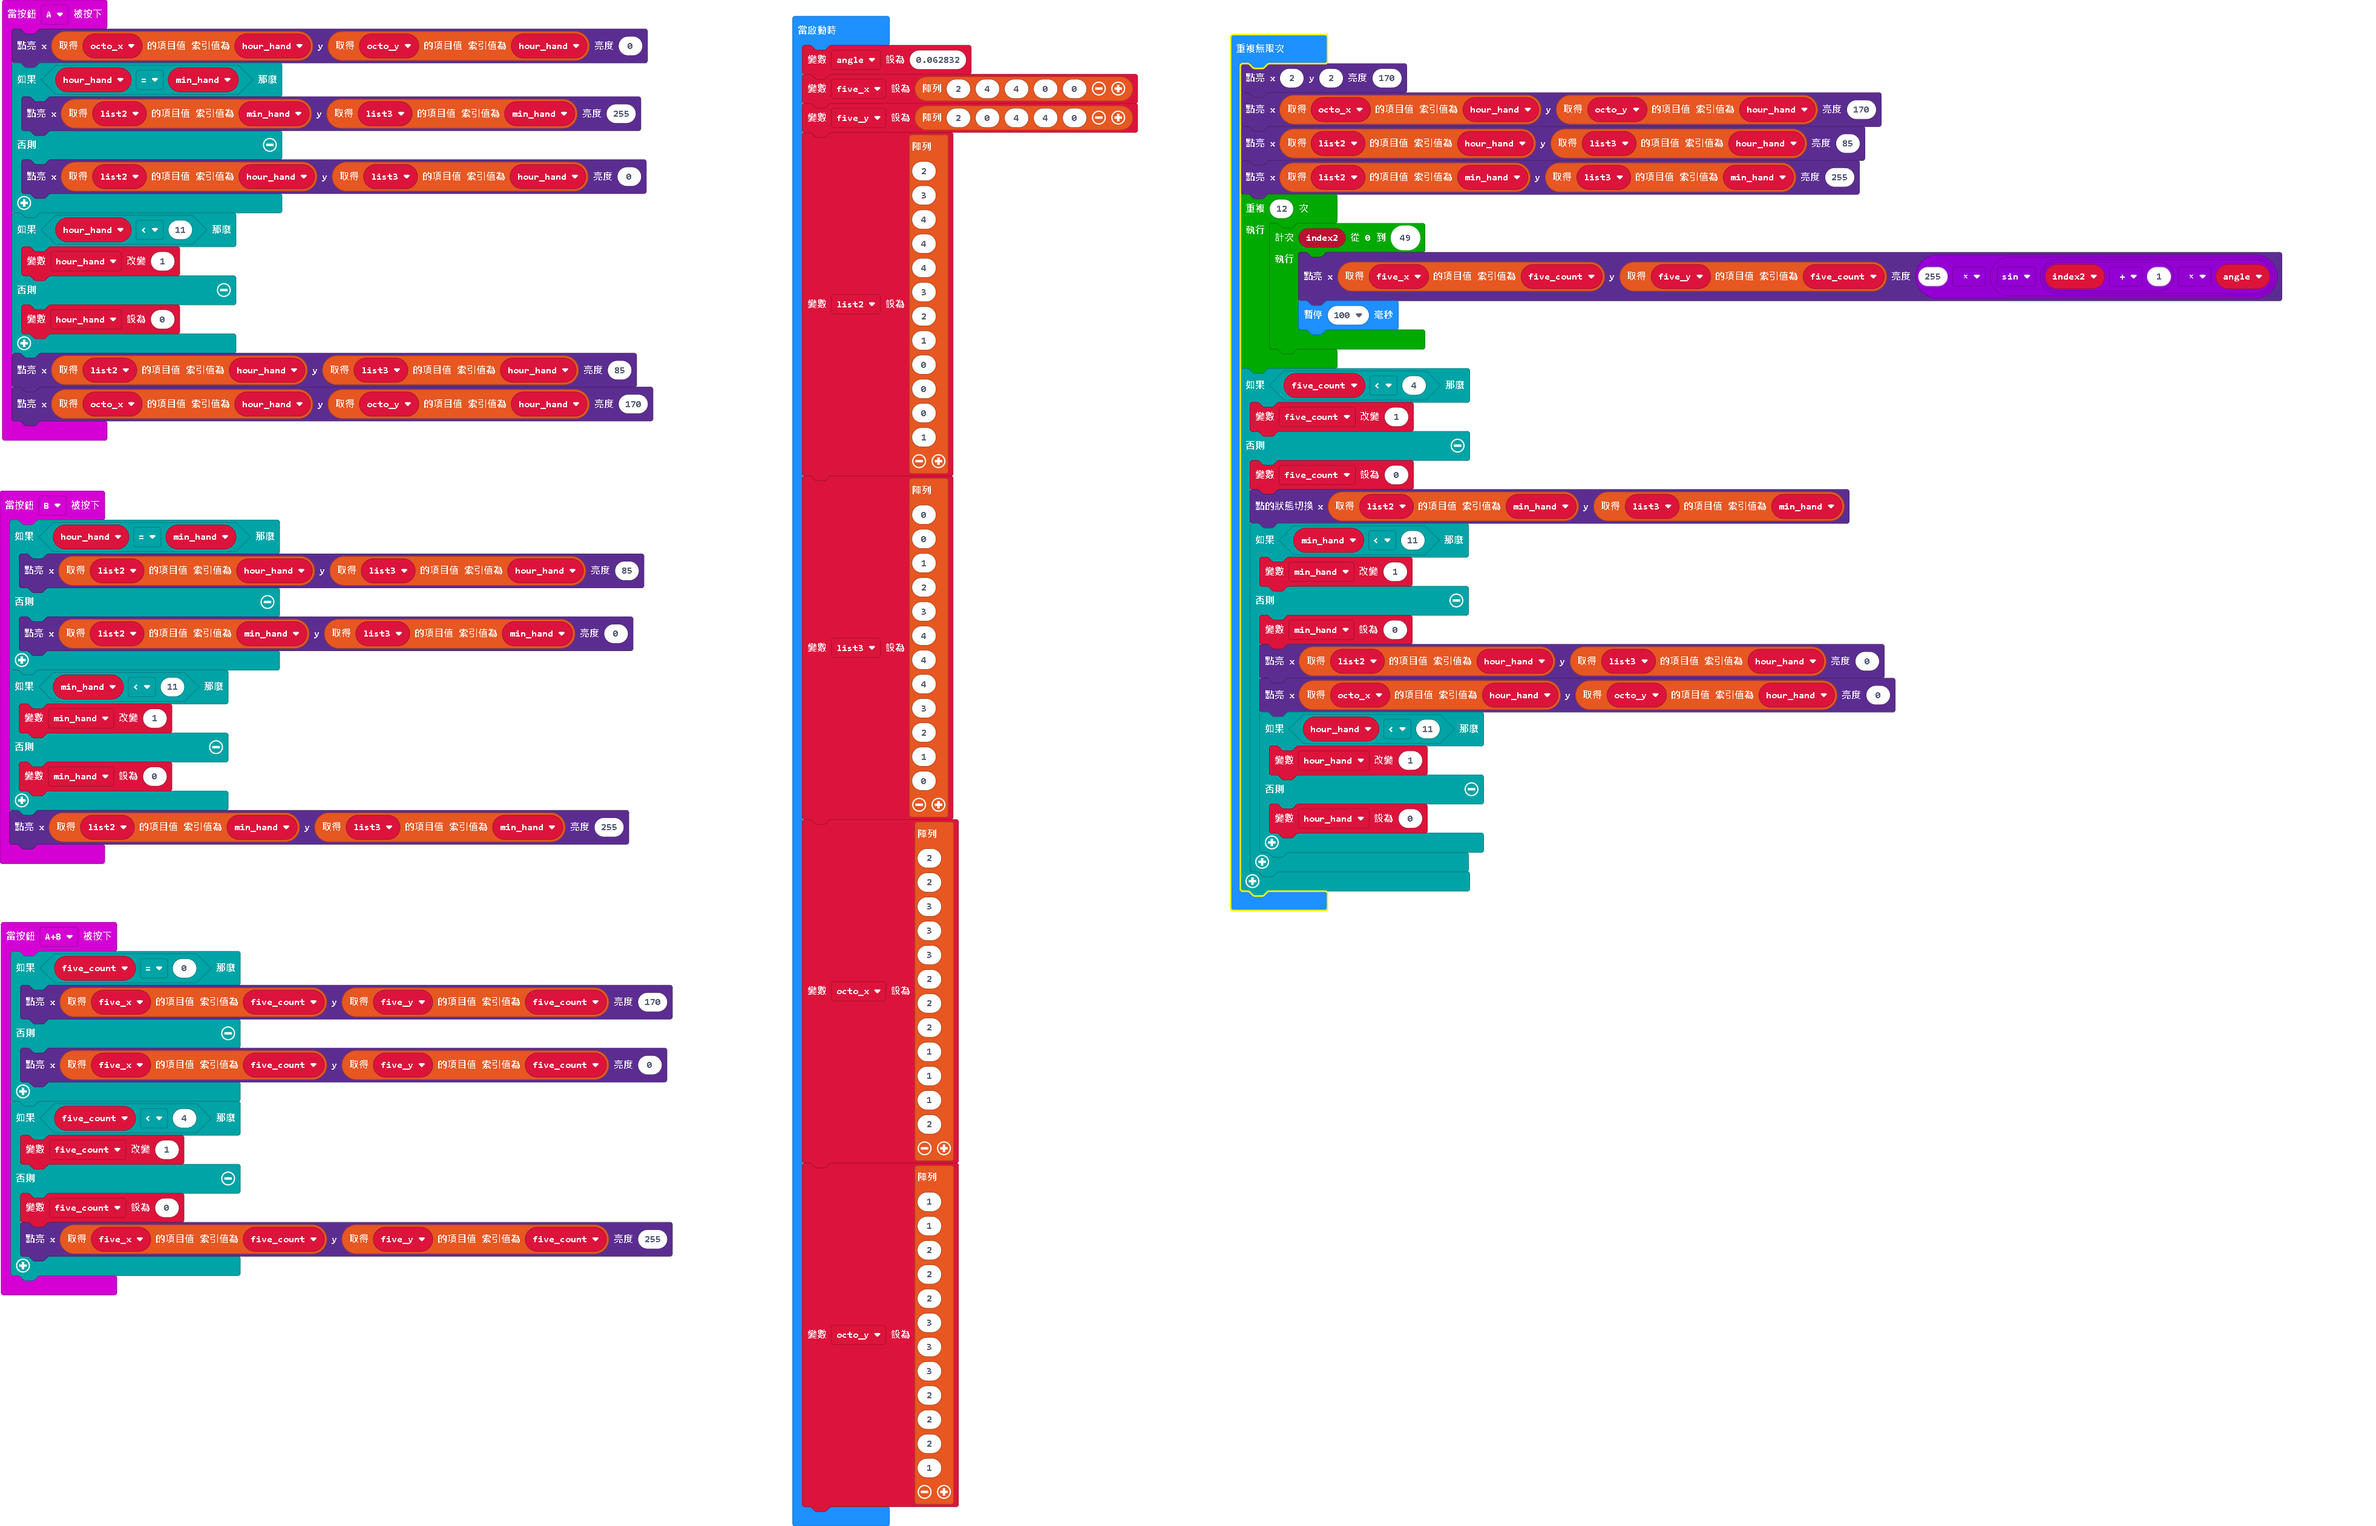
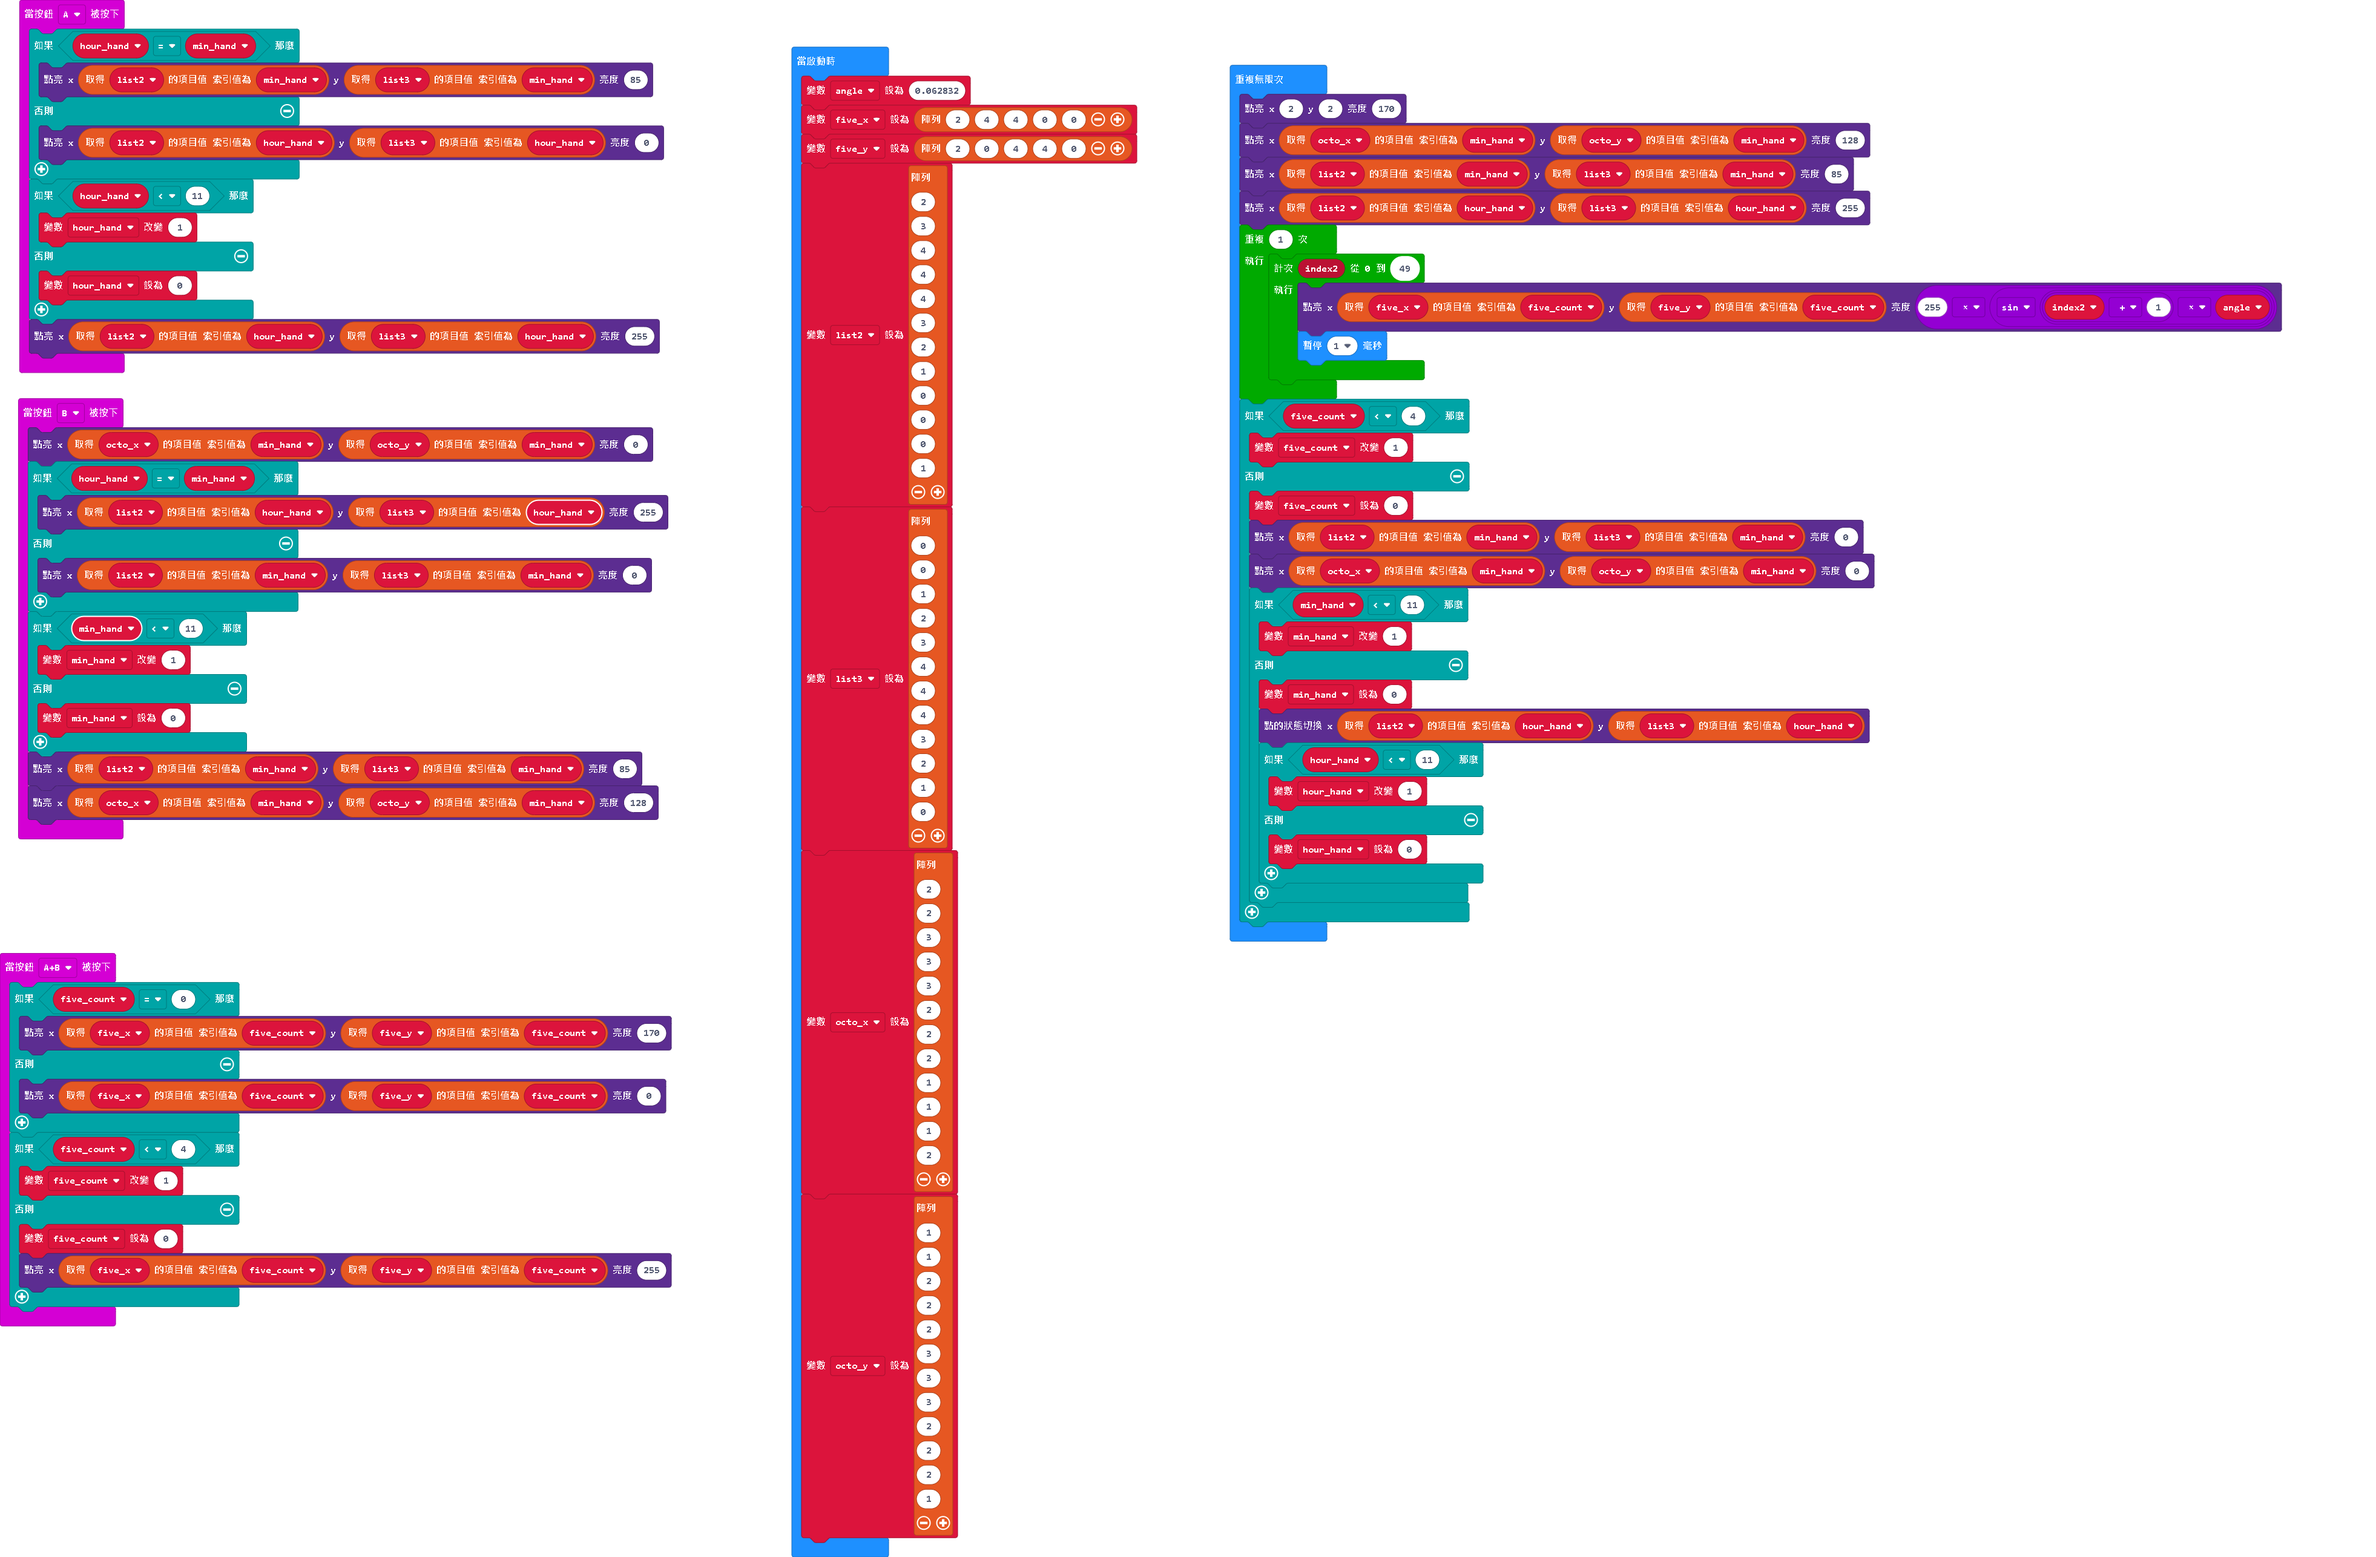
點是時針，octo是分針

Changed region(s): [[0.0, 0.0, 0.2797, 0.866], [0.3108, 0.0, 0.9636, 0.9897]]

diff --git a/main.ts b/main.ts
@@ -1,7 +1,6 @@
 input.onButtonPressed(Button.A, function () {
-    led.plotBrightness(octo_x[hour_hand], octo_y[hour_hand], 0)
     if (hour_hand == min_hand) {
-        led.plotBrightness(list2[min_hand], list3[min_hand], 255)
+        led.plotBrightness(list2[min_hand], list3[min_hand], 85)
     } else {
         led.plotBrightness(list2[hour_hand], list3[hour_hand], 0)
     }
@@ -10,8 +9,7 @@ input.onButtonPressed(Button.A, function () {
     } else {
         hour_hand = 0
     }
-    led.plotBrightness(list2[hour_hand], list3[hour_hand], 85)
-    led.plotBrightness(octo_x[hour_hand], octo_y[hour_hand], 170)
+    led.plotBrightness(list2[hour_hand], list3[hour_hand], 255)
 })
 input.onButtonPressed(Button.AB, function () {
     if (five_count == 0) {
@@ -27,8 +25,9 @@ input.onButtonPressed(Button.AB, function () {
     }
 })
 input.onButtonPressed(Button.B, function () {
+    led.plotBrightness(octo_x[min_hand], octo_y[min_hand], 0)
     if (hour_hand == min_hand) {
-        led.plotBrightness(list2[hour_hand], list3[hour_hand], 85)
+        led.plotBrightness(list2[hour_hand], list3[hour_hand], 255)
     } else {
         led.plotBrightness(list2[min_hand], list3[min_hand], 0)
     }
@@ -37,7 +36,8 @@ input.onButtonPressed(Button.B, function () {
     } else {
         min_hand = 0
     }
-    led.plotBrightness(list2[min_hand], list3[min_hand], 255)
+    led.plotBrightness(list2[min_hand], list3[min_hand], 85)
+    led.plotBrightness(octo_x[min_hand], octo_y[min_hand], 128)
 })
 let five_count = 0
 let min_hand = 0
@@ -57,26 +57,26 @@ octo_x = [2, 2, 3, 3, 3, 2, 2, 2, 1, 1, 1, 2]
 octo_y = [1, 1, 2, 2, 2, 3, 3, 3, 2, 2, 2, 1]
 basic.forever(function () {
     led.plotBrightness(2, 2, 170)
-    led.plotBrightness(octo_x[hour_hand], octo_y[hour_hand], 170)
-    led.plotBrightness(list2[hour_hand], list3[hour_hand], 85)
-    led.plotBrightness(list2[min_hand], list3[min_hand], 255)
-    for (let index = 0; index < 12; index++) {
+    led.plotBrightness(octo_x[min_hand], octo_y[min_hand], 128)
+    led.plotBrightness(list2[min_hand], list3[min_hand], 85)
+    led.plotBrightness(list2[hour_hand], list3[hour_hand], 255)
+    for (let index = 0; index < 1; index++) {
         for (let index2 = 0; index2 <= 49; index2++) {
             led.plotBrightness(five_x[five_count], five_y[five_count], 255 * Math.sin((index2 + 1) * angle))
-            basic.pause(100)
+            basic.pause(1)
         }
     }
     if (five_count < 4) {
         five_count += 1
     } else {
         five_count = 0
-        led.toggle(list2[min_hand], list3[min_hand])
+        led.plotBrightness(list2[min_hand], list3[min_hand], 0)
+        led.plotBrightness(octo_x[min_hand], octo_y[min_hand], 0)
         if (min_hand < 11) {
             min_hand += 1
         } else {
             min_hand = 0
-            led.plotBrightness(list2[hour_hand], list3[hour_hand], 0)
-            led.plotBrightness(octo_x[hour_hand], octo_y[hour_hand], 0)
+            led.toggle(list2[hour_hand], list3[hour_hand])
             if (hour_hand < 11) {
                 hour_hand += 1
             } else {
